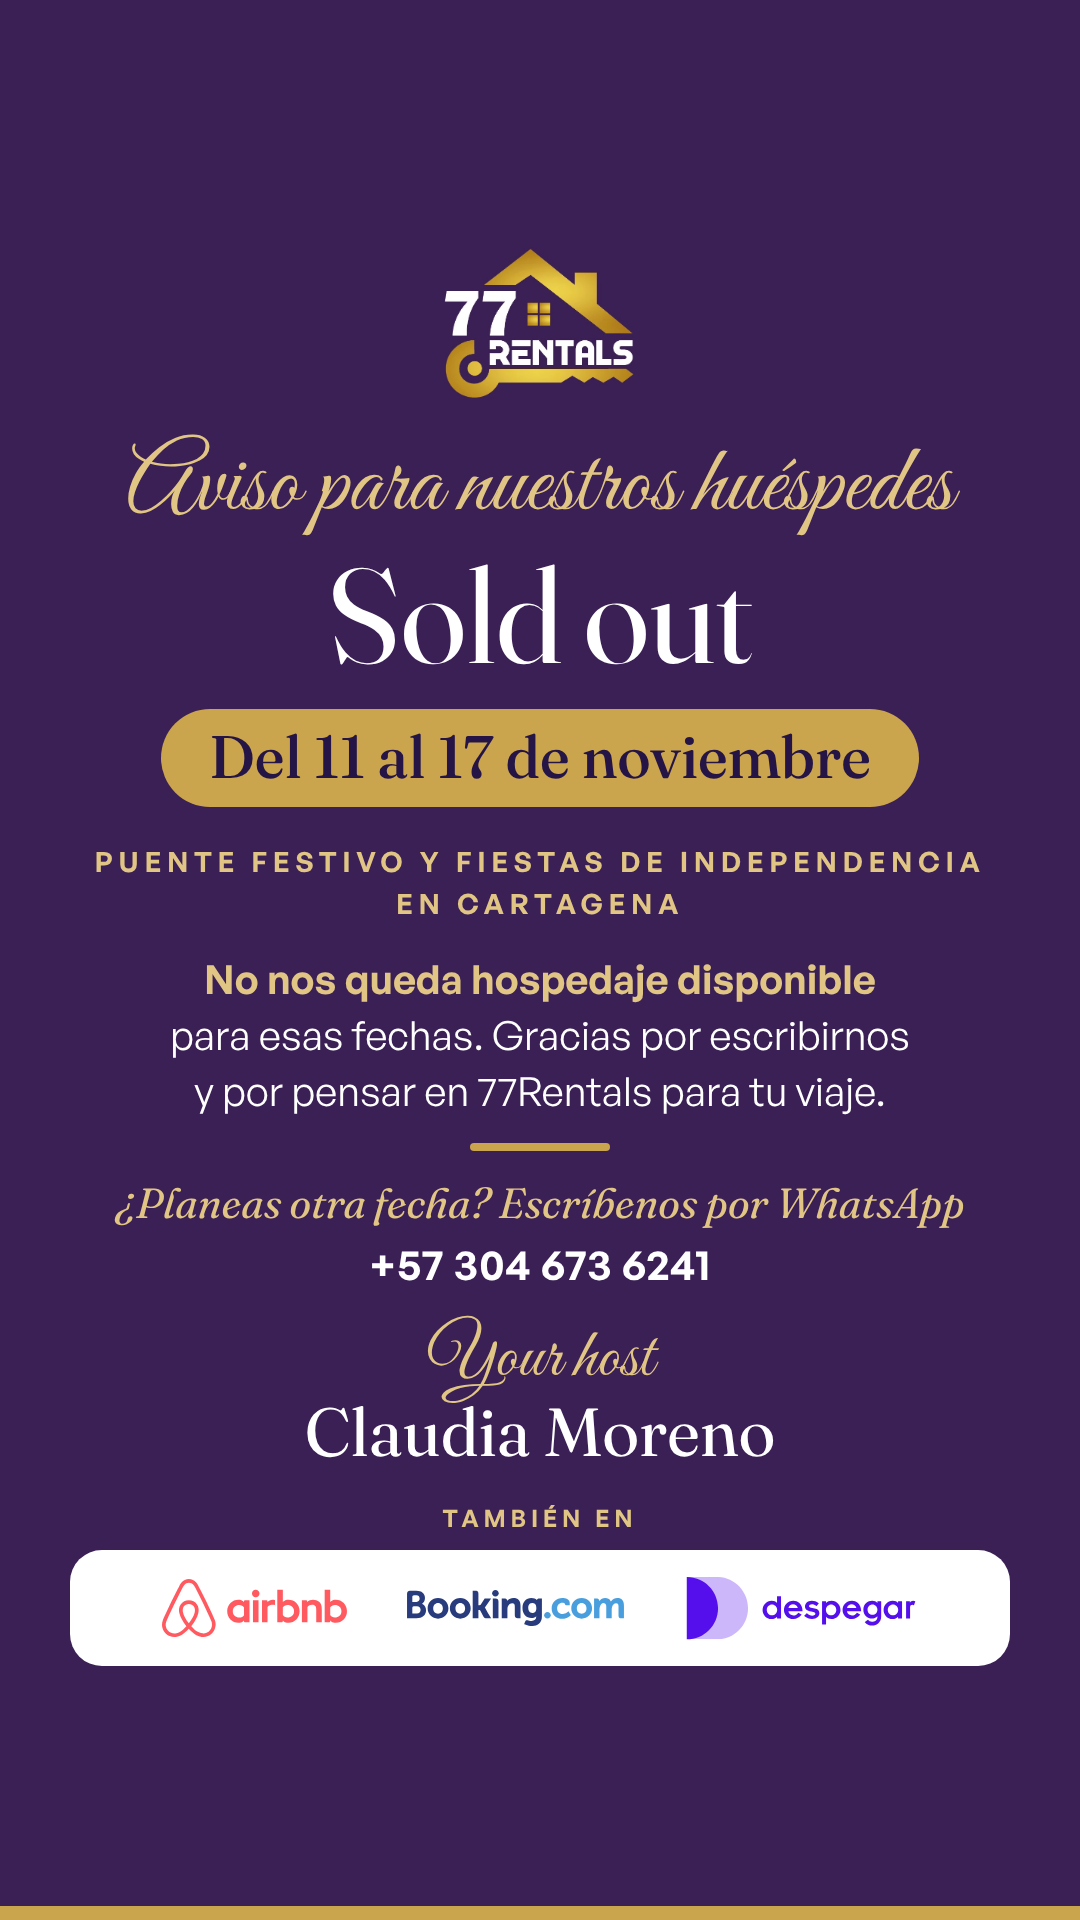
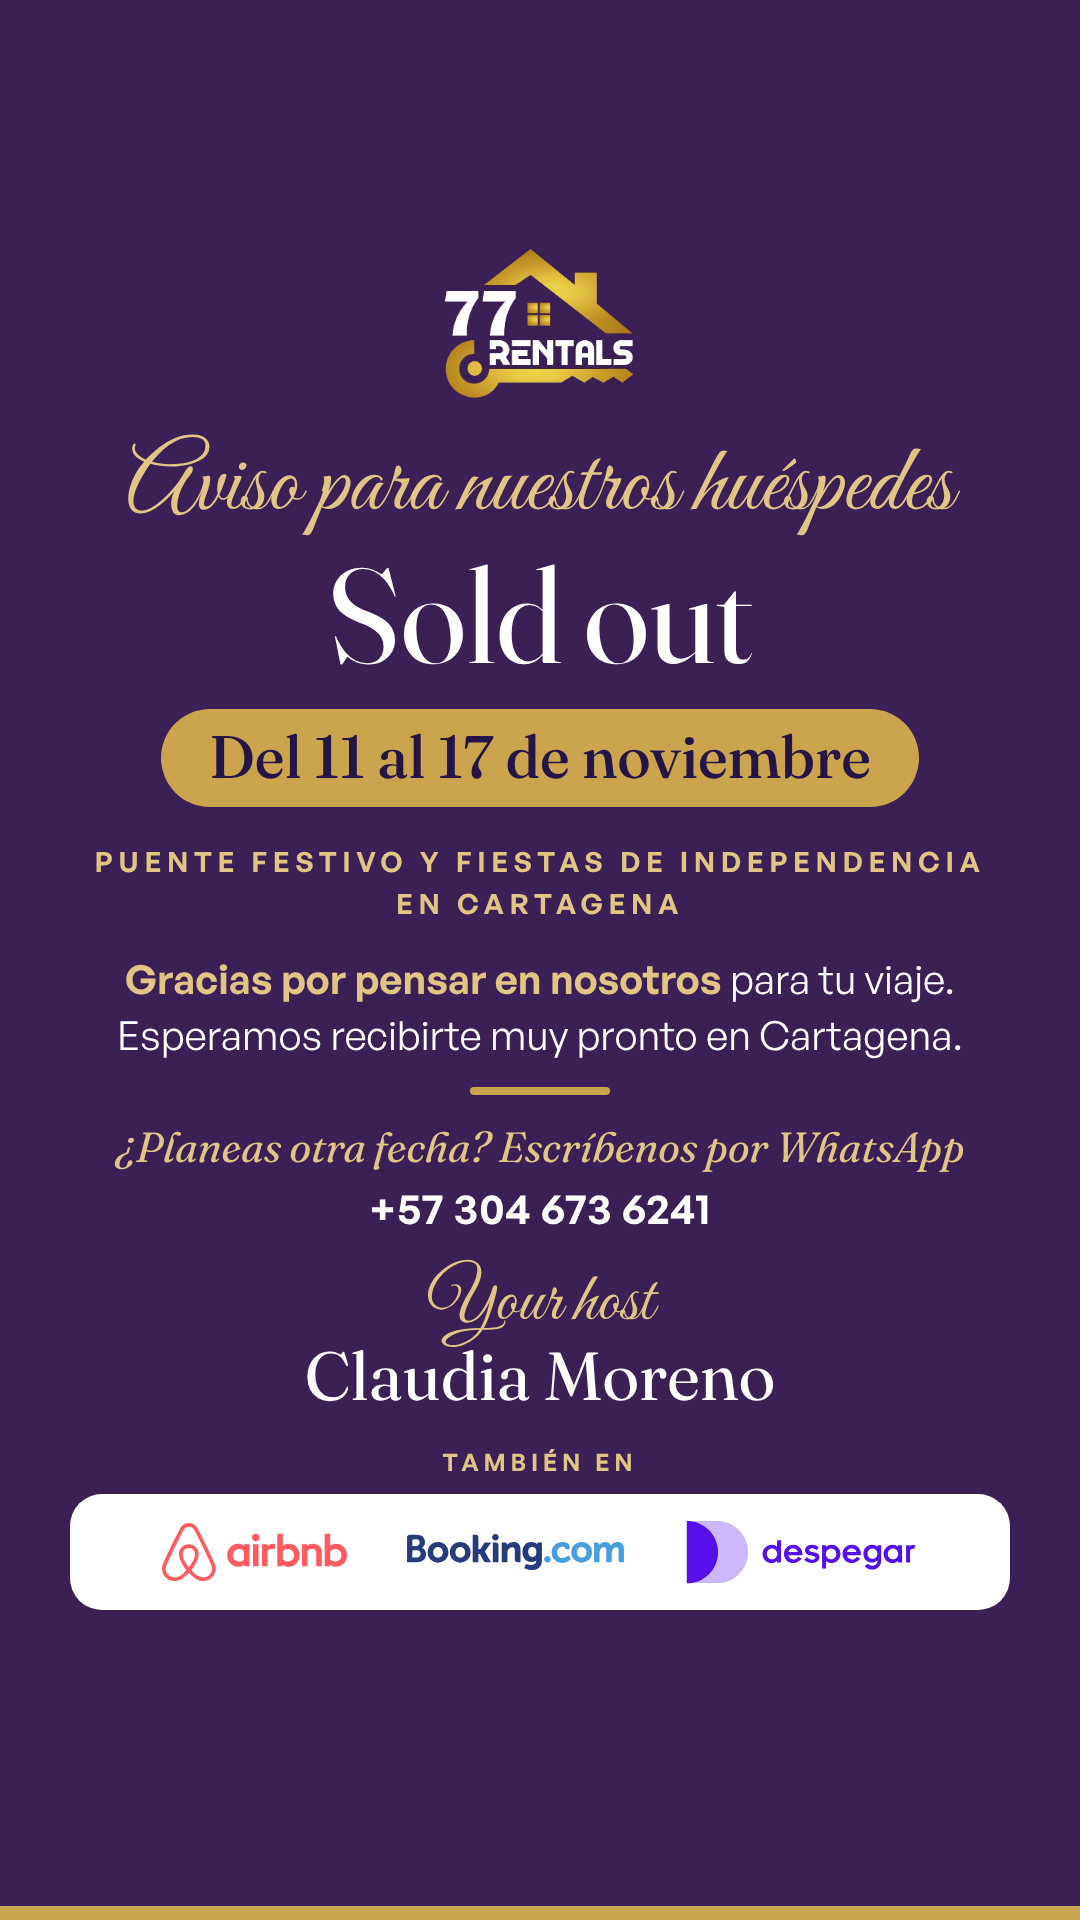
Status poster: remove repeated unavailability message
Claude-Session: https://claude.ai/code/session_01TDPBANVe18xXuRLrDjir42

Changed region(s): [[0.0611, 0.5, 0.9472, 0.875]]

diff --git a/posters/status/aviso-puente-cartagena/aviso-puente-cartagena.html b/posters/status/aviso-puente-cartagena/aviso-puente-cartagena.html
@@ -41,7 +41,7 @@
   <h1>Sold out</h1>
   <div class="date">Del 11 al 17 de noviembre</div>
   <div class="event">Puente festivo y Fiestas de Independencia<br>en Cartagena</div>
-  <p class="text"><strong>No nos queda hospedaje disponible</strong> para esas fechas. Gracias por escribirnos y por pensar en 77Rentals para tu viaje.</p>
+  <p class="text"><strong>Gracias por pensar en nosotros</strong> para tu viaje. Esperamos recibirte muy pronto en Cartagena.</p>
   <div class="rule"></div>
   <div class="cta">¿Planeas otra fecha? Escríbenos por WhatsApp<b>+57 304 673 6241</b></div>
   <div class="host-label">Your host</div>
